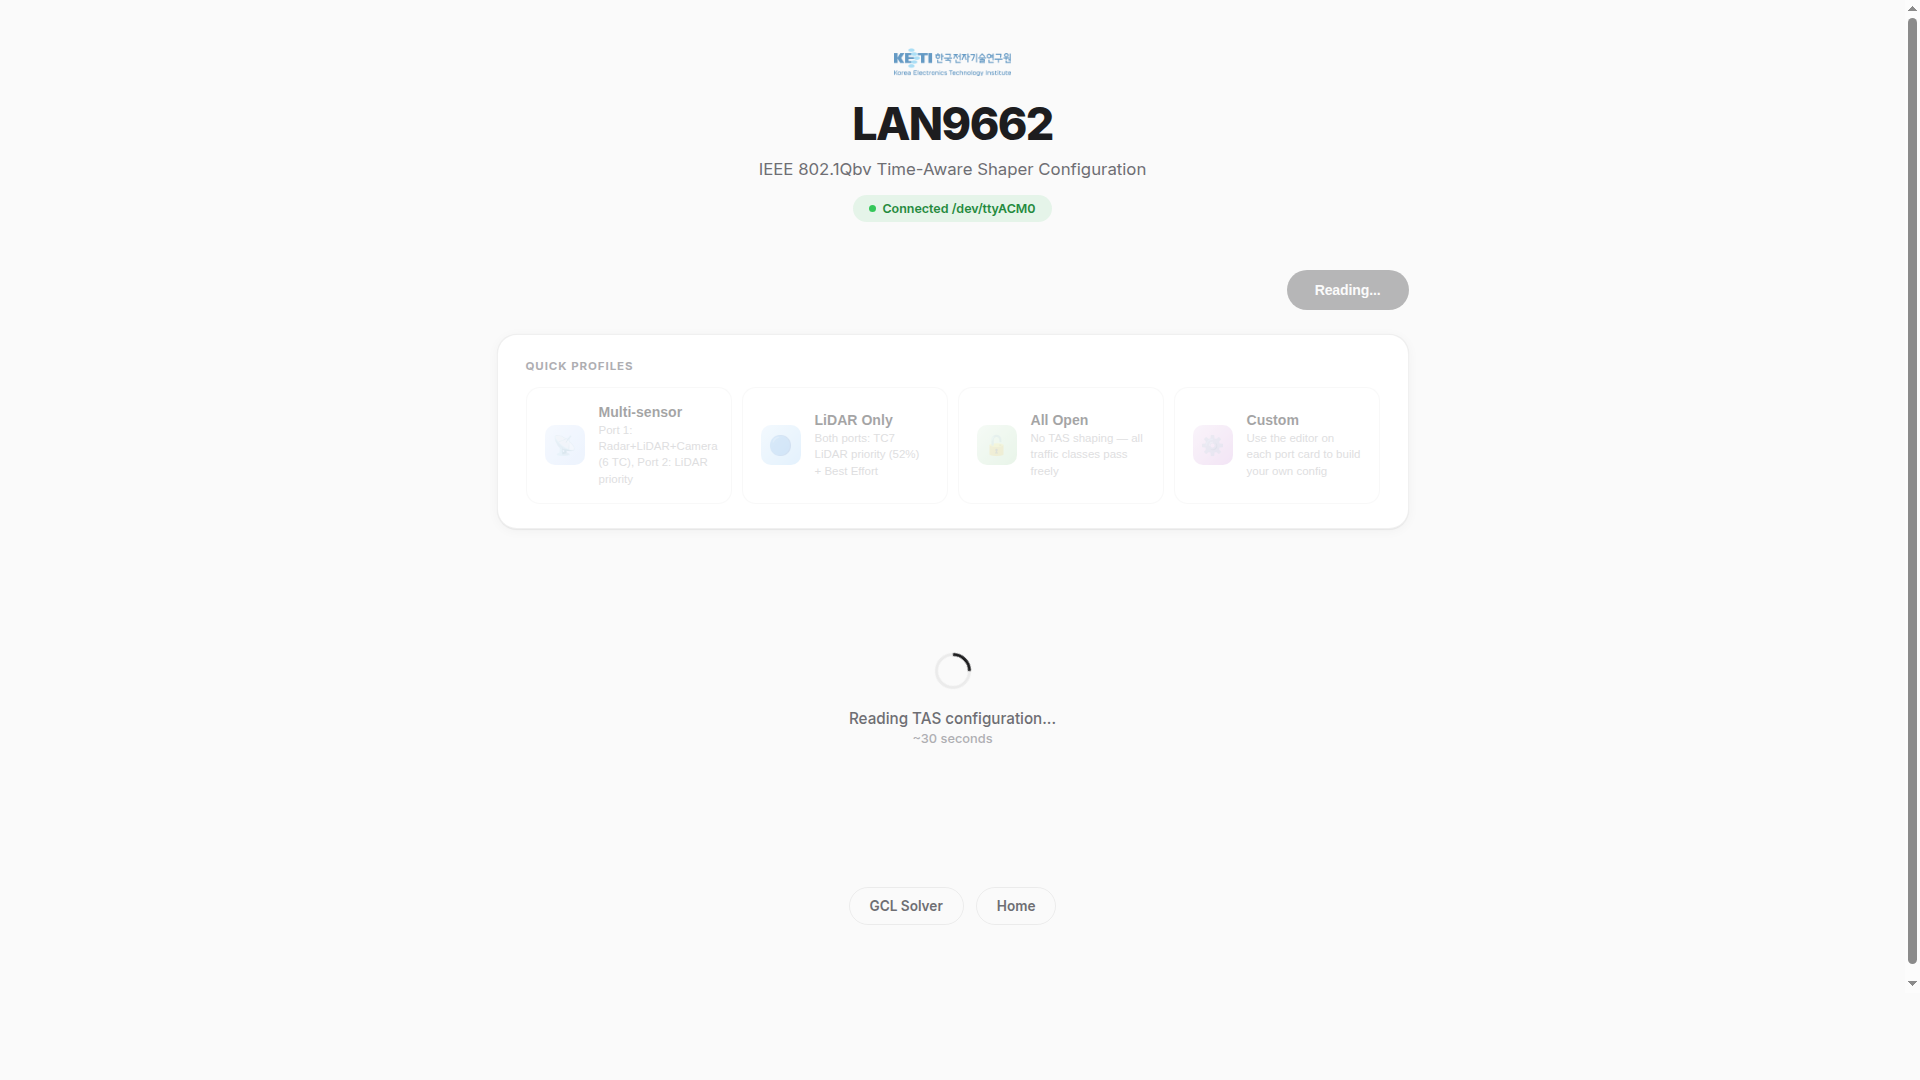
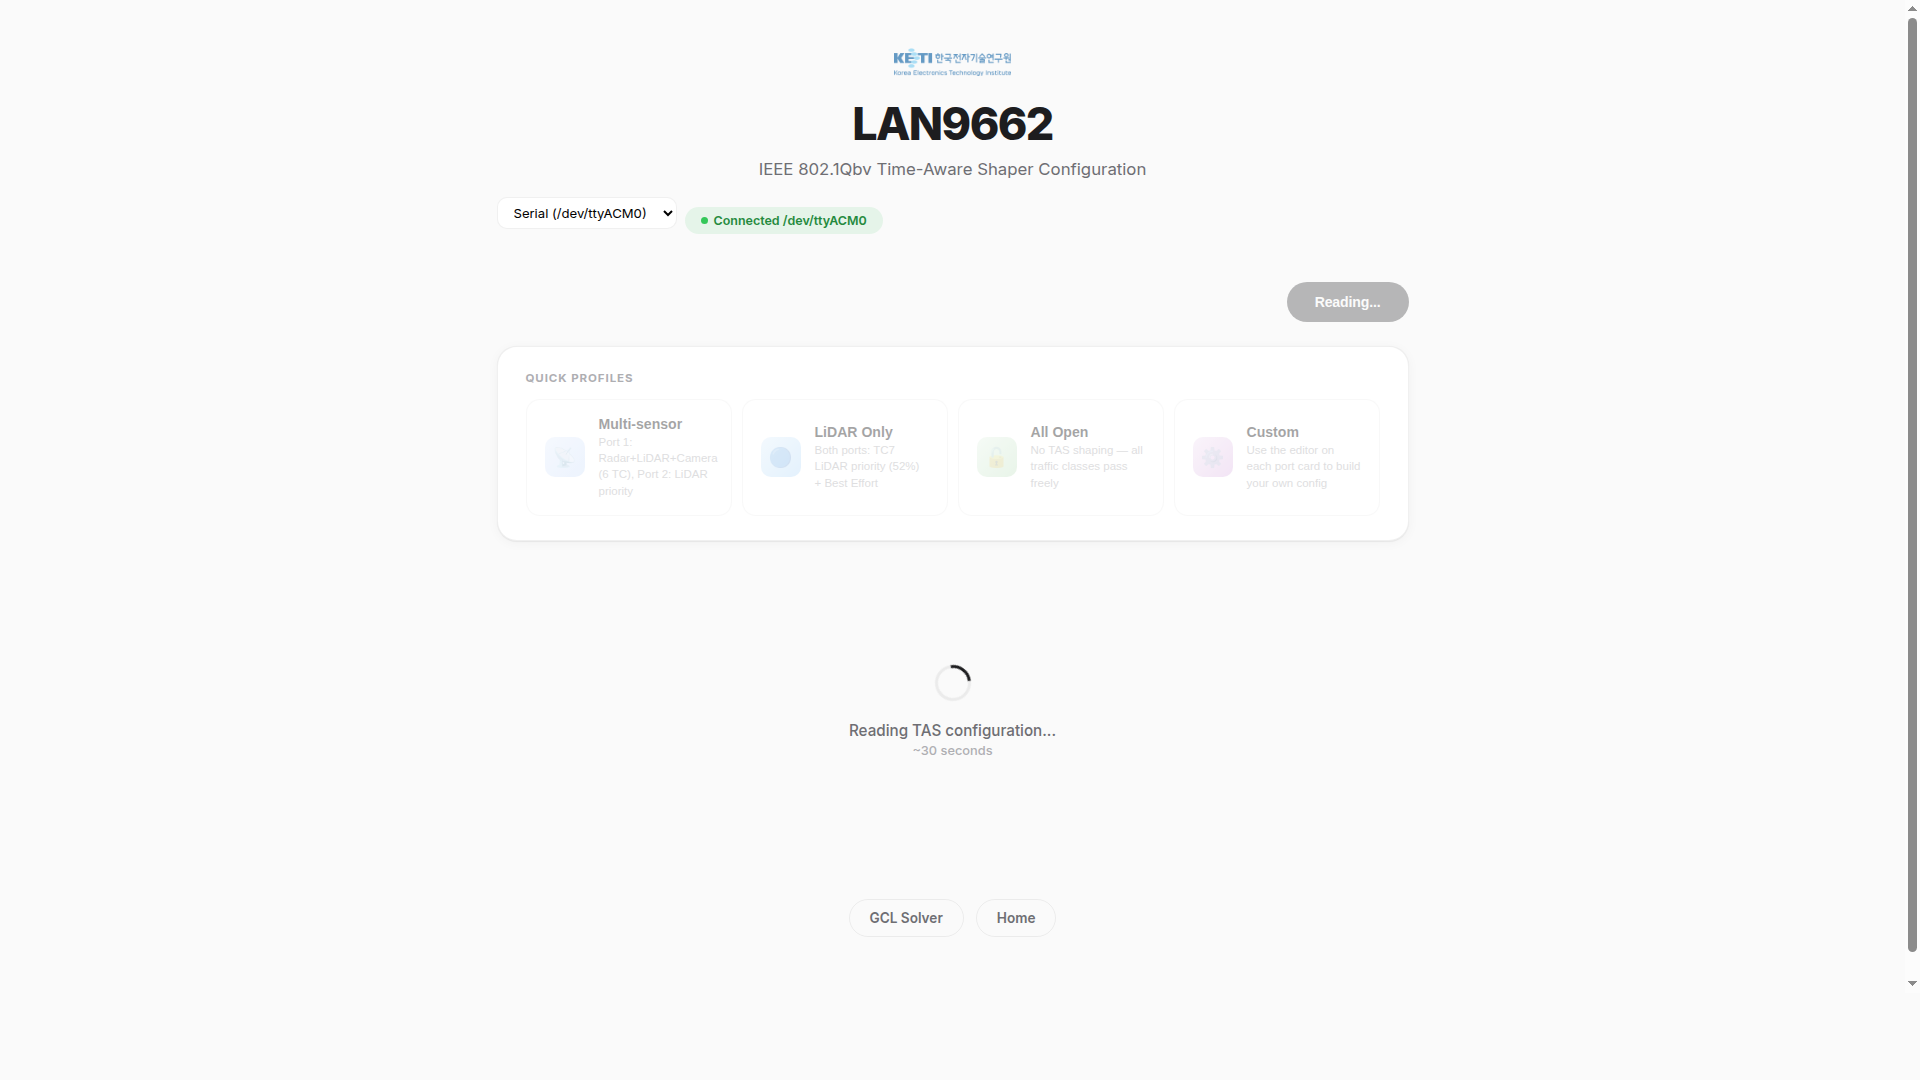
Add Ethernet transport selector to all pages
- solver.html: Serial/Ethernet dropdown in board toolbar,
  push uses selected transport
- board.html: Transport selector with host input,
  read/push-port/profiles all use selected transport
- dashboard.html: Multi-board panel with per-switch IP and push,
  LiDAR TAS live stats panel with traffic rate overlay
- Updated screenshots

diff --git a/board.html b/board.html
@@ -273,9 +273,17 @@
       <img src="keti.png" alt="KETI" class="logo" onerror="this.style.display='none'">
       <h1>LAN9662</h1>
       <p class="sub">IEEE 802.1Qbv Time-Aware Shaper Configuration</p>
-      <div id="statusChip" class="chip chip-err">
-        <span class="dot"></span>
-        <span id="statusText">Connecting...</span>
+      <div style="display:flex;align-items:center;gap:8px;margin-top:12px;">
+        <select id="boardTransport" style="padding:6px 12px;border-radius:10px;border:1px solid var(--border);font-size:0.82rem;font-family:inherit;background:var(--card);cursor:pointer;">
+          <option value="serial">Serial (/dev/ttyACM0)</option>
+          <option value="eth">Ethernet (CoAP/UDP)</option>
+        </select>
+        <input id="boardHost" type="text" placeholder="192.168.1.10" value="192.168.1.10"
+          style="display:none;padding:6px 12px;border-radius:10px;border:1px solid var(--border);font-size:0.82rem;font-family:inherit;width:140px;background:var(--card);">
+        <div id="statusChip" class="chip chip-err">
+          <span class="dot"></span>
+          <span id="statusText">Connecting...</span>
+        </div>
       </div>
     </header>
 
@@ -418,6 +426,16 @@
     let lastPortsData = {};   // last read data for re-render
     const editState = {};      // portNum → { cycleUs, entries: [{gateStates, durationUs}] }
 
+    /* ── Transport selection ── */
+    const boardTransportSel = document.getElementById('boardTransport');
+    const boardHostInput = document.getElementById('boardHost');
+    boardTransportSel.addEventListener('change', () => {
+      boardHostInput.style.display = boardTransportSel.value === 'eth' ? 'inline-block' : 'none';
+      checkStatus();
+    });
+    function getBoardTransport() { return boardTransportSel.value; }
+    function getBoardHost() { return boardHostInput.value.trim(); }
+
     /* ══════════════════════════════════════════
        Board Status
        ══════════════════════════════════════════ */
@@ -425,12 +443,20 @@
       const chip = document.getElementById('statusChip');
       const text = document.getElementById('statusText');
       const btn = document.getElementById('btnRead');
+      const transport = getBoardTransport();
       try {
-        const res = await fetch('/api/board/status');
+        let url = `/api/board/status?transport=${transport}`;
+        if (transport === 'serial') url += '&device=/dev/ttyACM0';
+        else url += `&host=${encodeURIComponent(getBoardHost())}`;
+        const res = await fetch(url);
         const d = await res.json();
         boardConnected = d.connected;
         chip.className = 'chip ' + (d.connected ? 'chip-ok' : 'chip-err');
-        text.textContent = d.connected ? `Connected  ${d.device}` : 'Disconnected';
+        if (transport === 'serial') {
+          text.textContent = d.connected ? `Connected  ${d.device}` : 'Disconnected';
+        } else {
+          text.textContent = d.connected ? `Connected  ${getBoardHost()}` : 'Unreachable';
+        }
         btn.disabled = !d.connected || reading;
       } catch {
         chip.className = 'chip chip-err';
@@ -499,7 +525,7 @@
           const res = await fetch('/api/gcl/push-port', {
             method: 'POST',
             headers: { 'Content-Type': 'application/json' },
-            body: JSON.stringify({ port: pn, cycleUs: cfg.cycleUs, entries: cfg.entries })
+            body: JSON.stringify({ port: pn, cycleUs: cfg.cycleUs, entries: cfg.entries, transport: getBoardTransport(), host: getBoardHost() || undefined })
           });
           const data = await res.json();
           if (!data.success) { allOk = false; showToast(`Port ${pn} failed: ${data.error || 'unknown'}`, 'err'); }
@@ -531,7 +557,11 @@
       btn.disabled = true; btn.textContent = 'Reading...';
       ct.innerHTML = `<div class="loading-msg"><div class="spinner-ring"></div><br>Reading TAS configuration...<br><span style="font-size:.8rem;color:var(--text3)">~30 seconds</span></div>`;
       try {
-        const res = await fetch('/api/gcl/read');
+        const transport = getBoardTransport();
+        let readUrl = `/api/gcl/read?transport=${transport}`;
+        if (transport === 'serial') readUrl += '&device=/dev/ttyACM0';
+        else readUrl += `&host=${encodeURIComponent(getBoardHost())}`;
+        const res = await fetch(readUrl);
         const data = await res.json();
         if (data.error) { ct.innerHTML = `<div class="error-card">${data.error}</div>`; return; }
         const sec = ((Date.now() - start) / 1000).toFixed(1);
@@ -801,7 +831,9 @@
           body: JSON.stringify({
             port: portNum,
             cycleUs: st.cycleUs,
-            entries: st.entries
+            entries: st.entries,
+            transport: getBoardTransport(),
+            host: getBoardHost() || undefined
           })
         });
         const data = await res.json();

diff --git a/solver.html b/solver.html
@@ -336,6 +336,12 @@
         <span class="board-dot" id="boardDot"></span>
         <span id="boardLabel">Board: checking...</span>
       </div>
+      <select id="solverTransport" style="padding:4px 10px;border-radius:6px;border:1px solid rgba(99,102,241,0.2);font-size:0.78rem;font-family:inherit;background:rgba(248,250,252,0.8);cursor:pointer;">
+        <option value="serial">Serial</option>
+        <option value="eth">Ethernet</option>
+      </select>
+      <input id="solverHost" type="text" placeholder="192.168.1.10" value="192.168.1.10"
+        style="display:none;padding:4px 10px;border-radius:6px;border:1px solid rgba(99,102,241,0.2);font-size:0.78rem;font-family:inherit;width:120px;background:rgba(248,250,252,0.8);">
       <button class="btn-yaml" id="btnExportYAML" disabled>Export YAML</button>
       <button class="btn-board" id="btnPushBoard" disabled>Push to Board</button>
       <div class="board-log" id="boardLog"></div>
@@ -968,15 +974,31 @@
     btn.disabled = !currentResult || !boardConnected;
   }
 
+  /* ── Solver transport ── */
+  const solverTransportSel = document.getElementById('solverTransport');
+  const solverHostInput = document.getElementById('solverHost');
+  solverTransportSel.addEventListener('change', () => {
+    solverHostInput.style.display = solverTransportSel.value === 'eth' ? 'inline-block' : 'none';
+    checkBoardStatus();
+  });
+
   async function checkBoardStatus() {
     const dot = document.getElementById('boardDot');
     const label = document.getElementById('boardLabel');
+    const transport = solverTransportSel.value;
     try {
-      const res = await fetch('/api/board/status');
+      let url = `/api/board/status?transport=${transport}`;
+      if (transport === 'serial') url += '&device=/dev/ttyACM0';
+      else url += `&host=${encodeURIComponent(solverHostInput.value.trim())}`;
+      const res = await fetch(url);
       const data = await res.json();
       boardConnected = data.connected;
       dot.className = 'board-dot' + (data.connected ? ' connected' : '');
-      label.textContent = data.connected ? `Board: ${data.device}` : 'Board: disconnected';
+      if (transport === 'serial') {
+        label.textContent = data.connected ? `Board: ${data.device}` : 'Board: disconnected';
+      } else {
+        label.textContent = data.connected ? `Board: ${solverHostInput.value.trim()}` : 'Board: unreachable';
+      }
     } catch {
       boardConnected = false;
       dot.className = 'board-dot';
@@ -1010,7 +1032,9 @@
         body: JSON.stringify({
           boardConfigs: currentResult.boardConfigs,
           portMap: getPortMap(),
-          device: '/dev/ttyACM0'
+          transport: solverTransportSel.value,
+          device: solverTransportSel.value === 'serial' ? '/dev/ttyACM0' : undefined,
+          host: solverTransportSel.value === 'eth' ? solverHostInput.value.trim() : undefined
         })
       });
       const data = await res.json();
